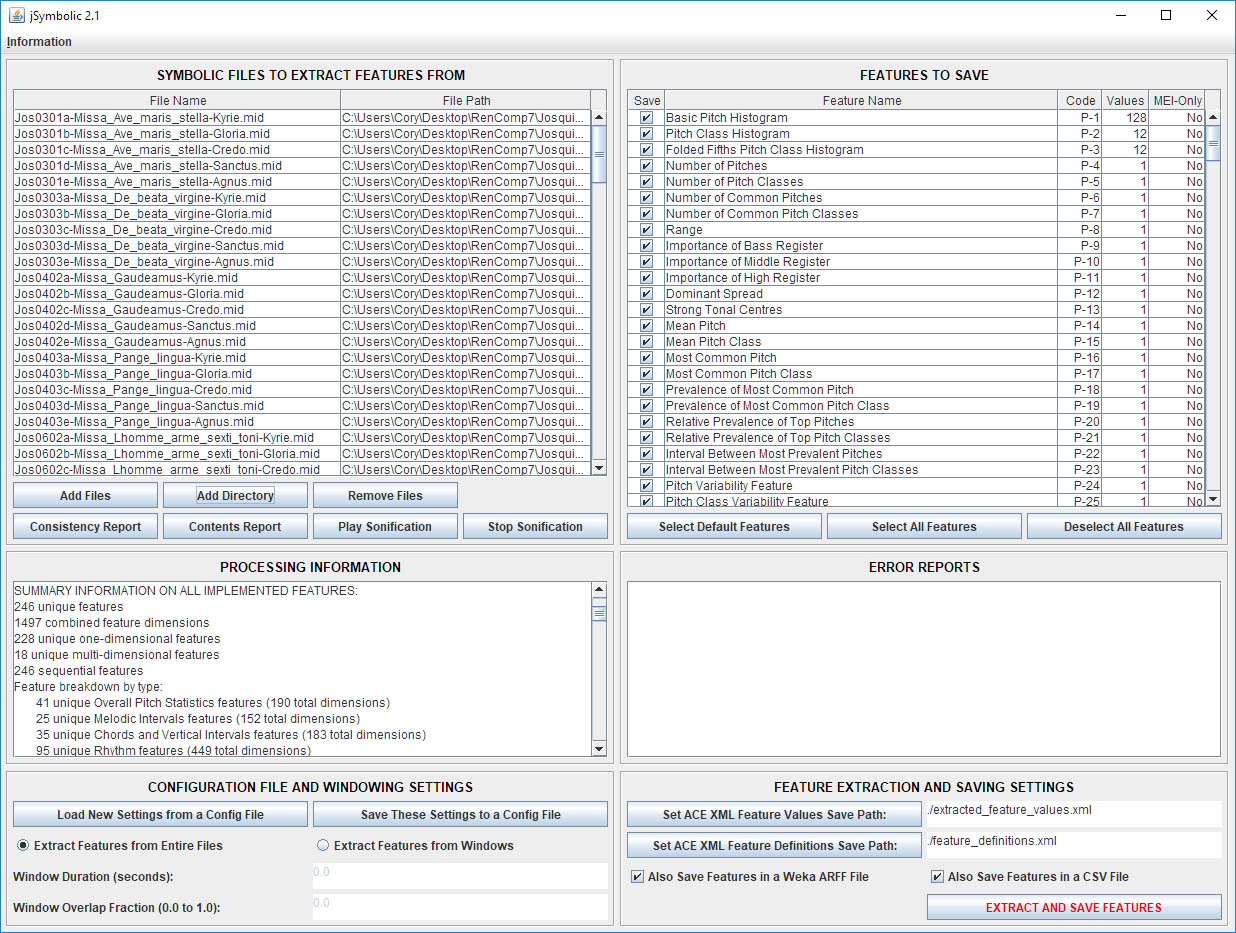
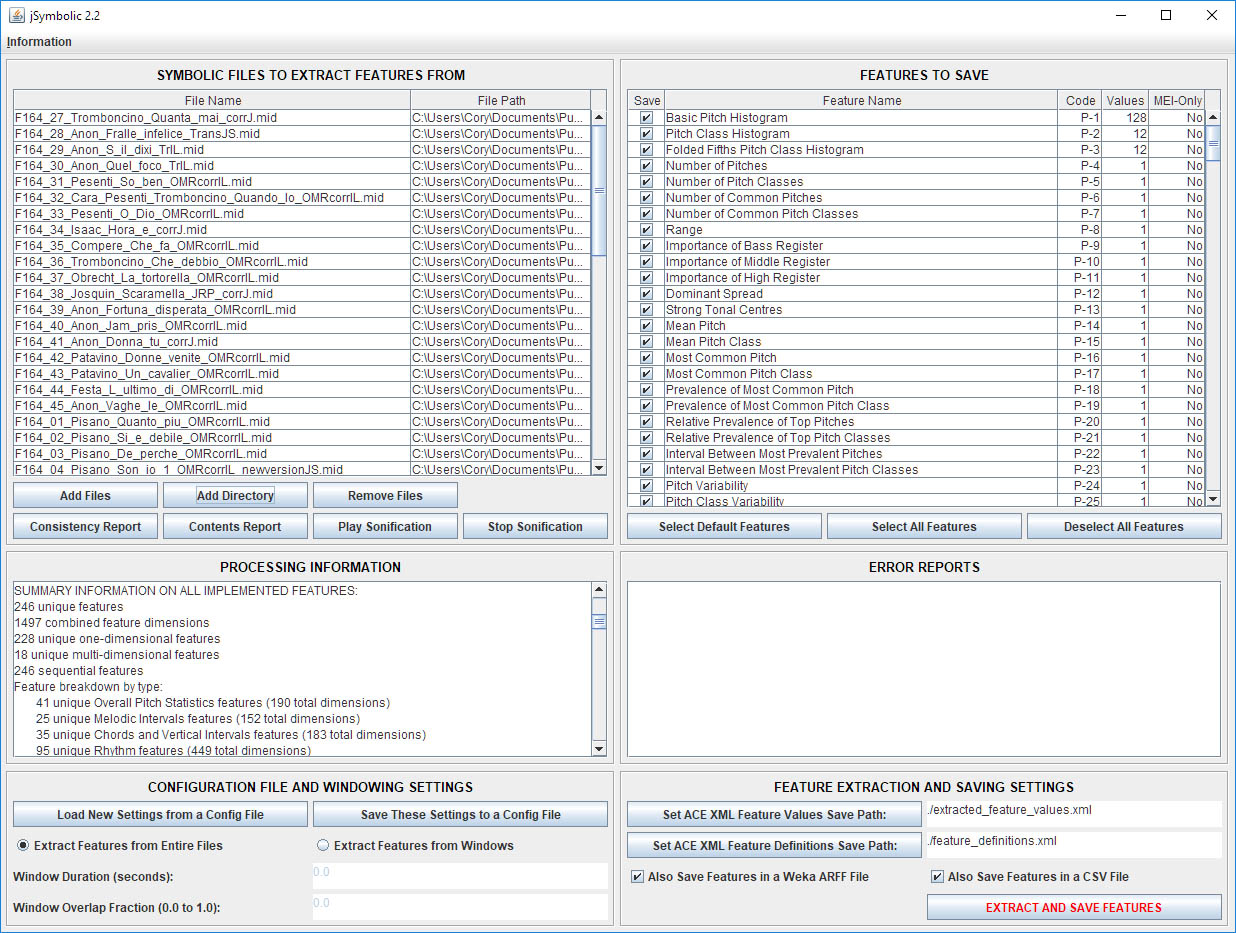
- Version 2.2 SourceForge release version. - Minor documentation updates.

diff --git a/manual/versionhistory_files/versionhistory.html b/manual/versionhistory_files/versionhistory.html
@@ -15,8 +15,87 @@
 
 <p><strong> Currently Being Worked On:</strong></p>
 <ul>
-  <li>Go to the <a href="https://github.com/DDMAL/jSymbolic2/tree/development" target="top">GitHub development branch</a> page to see the development version of the code. Of course, it is not recommended that you deploy and use this version directly, as it may not be fully tested and stable at any given time.</li>
   <li>Go to the <a href="https://github.com/DDMAL/jSymbolic2/tree/master" target="top">GitHub master branch</a> page to see the most current stable version of the code currently being worked on. This is <em>not</em> the release version, however: the proper release version, which is recommended for research use, is available on the <a href="http://jmir.sourceforge.net" target="top">jMIR SourceForge page</a>.</li>
+  <li>Go to the <a href="https://github.com/DDMAL/jSymbolic2/tree/development" target="top">GitHub development branch</a> page to see the cutting edge development version of the code. Of course, it is not recommended that you deploy and use this version directly, as it may not be fully tested and stable at any given time.</li>
+</ul>
+<p><strong>jSymbolic 2.2:</strong></p>
+<ul>
+  <li>  Extensive new HTML tutorial:
+    <ul>
+      <li>Including working files.</li>
+      <li>Accessible via GUI or on-line.</li>
+    </ul>
+  </li>
+  <li>Optional new configuration file that automatically disables features that could potentially measure biased information in improperly constructed datasets.
+    <ul>
+      <li>e.g. disables tempo-related features, in case the dataset has tempo data linked to encoding source rather than musical content.</li>
+      <li>Designed to be especially useful for dealing with (Western) early  music, as the disabled features are not relevant to this kind of music.</li>
+    </ul>
+  </li>
+  <li>Minor bug fixes:
+    <ul>
+      <li>Changed the Chord Duration feature to reflect duration in quarter notes rather than in seconds.</li>
+      <li>Fixed typos in the hard-coded names of three features.</li>
+      <li>  Fixed bug involving pieces with no pitched notes.</li>
+    </ul>
+  </li>
+  <li>Updated the manual, README,  code documentation and configuration files to reflect all  changes.
+    <ul>
+      <li>Added minor documentation clarifications and corrections in general.</li>
+    </ul>
+  </li>
+</ul>
+<p><strong>jSymbolic 2.1:</strong></p>
+<ul>
+  <li>Features:  </li>
+  <ul>
+    <li>Added 74 new features.</li>
+    <li>Reordered, renumbered, renamed and/or reworded documentation of many features (new and old) for the purpose of clarity.</li>
+  </ul>
+  <li>New reports / analysis:
+    <ul>
+      <li>Detailed formatted reports on the MIDI message-by-message contents of individual MIDI and (internally converted) MEI files.</li>
+      <li>Reports on the intra-consistency and inter-consistency of MIDI and MEI files. Useful for testing for dataset bias and for debugging during feature development.</li>
+    </ul>
+  </li>
+  <li>            User interfaces:
+    <ul>
+      <li>Added recursive directory parsing option to the GUI and command line.</li>
+      <li>Added file count reporting to the GUI for when files are removed from the processing queue.</li>
+      <li>Removed the indication of whether features are sequential from the GUI features table (in order to create more space).</li>
+    </ul>
+  </li>
+  <li>Improved error handling:
+            
+        
+    <ul>
+      <li>Enhanced functionality for automatically validating and error-checking new features as they are added to jSymbolic.</li>
+      <li>Additional general new error detection functionality.</li>
+      <li>Improved clarity of error messages, removed redundant data.</li>
+      <li>Added  miscellaneous internal debugging methods.</li>
+    </ul>
+  </li>
+  <li>Adjusted reactions to unspecified data in symbolic music files:
+    <ul>
+      <li>        Defaulted time signature to 4/4 if no time signature is specified in the MIDI file (this is the default behaviour for MIDI).</li>
+      <li>    Defaulted tempo measurements to 120 BPM if no tempo change messages are specified in the MIDI (this is the MIDI default).</li>
+    </ul>
+  </li>
+  <li>             Improved character handling:    
+    <ul>
+      <li>Updated Apache Xerces to version 2.11.0.</li>
+      <li>Set saving of ACE XML files to consistently use UTF-8 encoding.</li>
+      <li>     Improved error messages to be more informative when encountering invalid characters in file names.</li>
+    </ul>
+  </li>
+  <li>Miscellaneous additional internal additions and changes.</li>
+  <li>Miscellaneous minor bug fixes.</li>
+  <li>Updated the manual, README,  code documentation and configuration files to reflect all  changes.
+    <ul>
+      <li>Added minor documentation clarifications and corrections in general.</li>
+    </ul>
+  </li>
+  <li>Updated the ACE and UtilityClasses support libraries to the newest (improved) versions.</li>
 </ul>
 <p><strong>jSymbolic 2.0:</strong></p>
 <ul>

diff --git a/src/jsymbolic2/processing/MIDIIntermediateRepresentations.java b/src/jsymbolic2/processing/MIDIIntermediateRepresentations.java
@@ -155,18 +155,18 @@ public class MIDIIntermediateRepresentations
 	 * A normalized histogram where the value of each bin specifies the fraction of all notes in the piece
 	 * with a rhythmic value corresponding to that of the given bin. The bins are numbered as follows: 
 	 * 
-	 *		0 -> thirty second notes (or less)
-	 *		1 -> sixteenth notes
-	 *		2 -> eighth notes
-	 *		3 -> dotted eighth notes
-	 *		4 -> quarter notes
-	 *		5 -> dotted quarter notes
-	 *		6 -> half notes
-	 *		7 -> dotted half notes
-	 *		8 -> whole notes
-	 *		9 -> dotted whole notes
-	 *		10 -> double whole notes
-	 *		11 -> dotted double whole notes (or more)
+	 *		0: thirty second notes (or less)
+	 *		1: sixteenth notes
+	 *		2: eighth notes
+	 *		3: dotted eighth notes
+	 *		4: quarter notes
+	 *		5: dotted quarter notes
+	 *		6: half notes
+	 *		7: dotted half notes
+	 *		8: whole notes
+	 *		9: dotted whole notes
+	 *		10: double whole notes
+	 *		11: dotted double whole notes (or more)
 	 * 
 	 * Both pitched and unpitched notes are included in this histogram. Tempo is, of course, not relevant to
 	 * this feature. Notes with durations not precisely matching one of these rhythmic note values are mapped

diff --git a/README.md b/README.md
@@ -59,7 +59,7 @@ and also posted on the  jMIR web site
 (http://jmir.sourceforge.net/manuals/jSymbolic_manual/home.html).
 
 jSymbolic is also packaged with a detailed HTML tutorial that includes worked
-examples. First-time users of jSymbolic may wish to follow this tutorial.
+examples. First-time users of jSymbolic may wish to follow this tutorial(http://jmir.sourceforge.net/manuals/jSymbolic_tutorial/home.html).
 
 The most recent development code for jSymbolic can be found on its GitHub
 page (https://github.com/DDMAL/jSymbolic2). However, it is strongly suggested
@@ -120,7 +120,7 @@ When the JRE download is complete, follow the installation instructions that
 come with it in order to install it
 
 
-### INSTALLING jSymbolic
+### INSTALLING JSYMBOLIC
 
 The release version of jSymbolic may be downloaded from
 https://sourceforge.net/projects/jmir/files/jSymbolic/. Alternatively, the
